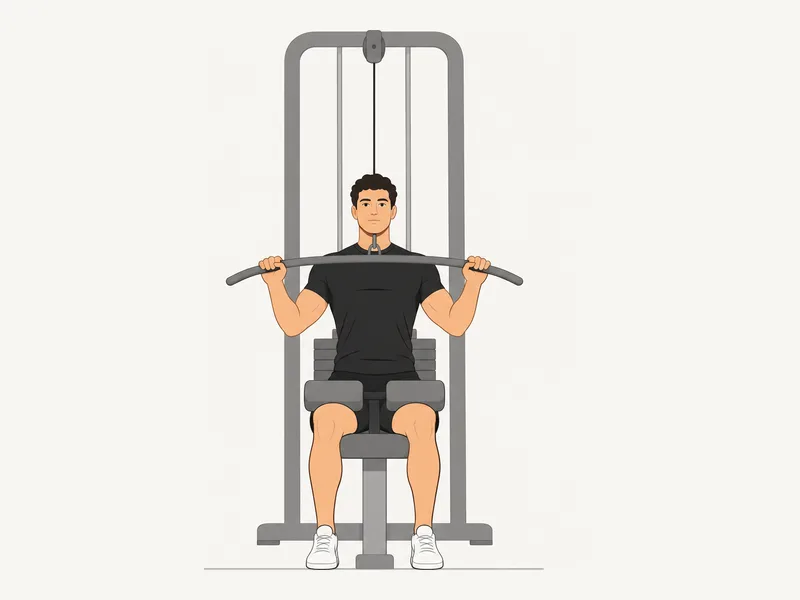
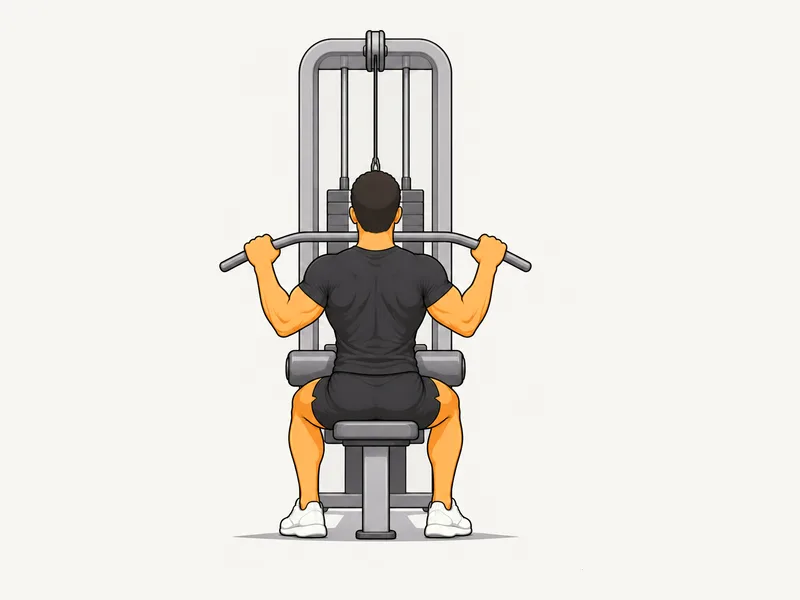
fix: tirage vertical vu de dos, face à la machine, prise pronation

Changed region(s): [[0.25, 0.03, 0.6875, 0.96]]

diff --git a/public/sw.js b/public/sw.js
@@ -1,4 +1,4 @@
-const CACHE = 'warmup-v11';
+const CACHE = 'warmup-v12';
 
 // Pages-outils : statiques, elles calculent tout dans le navigateur à partir
 // de l'URL. En cache, elles fonctionnent sans réseau.
